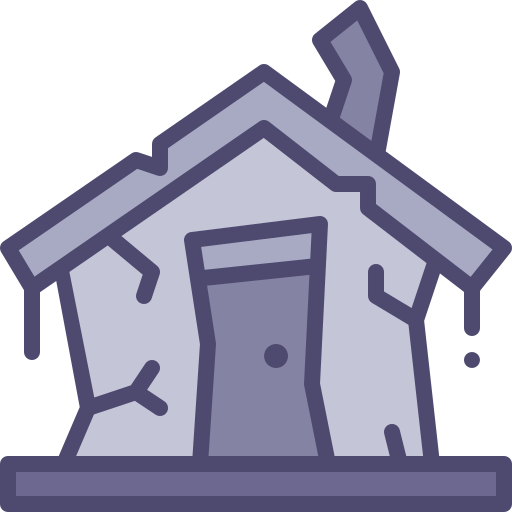
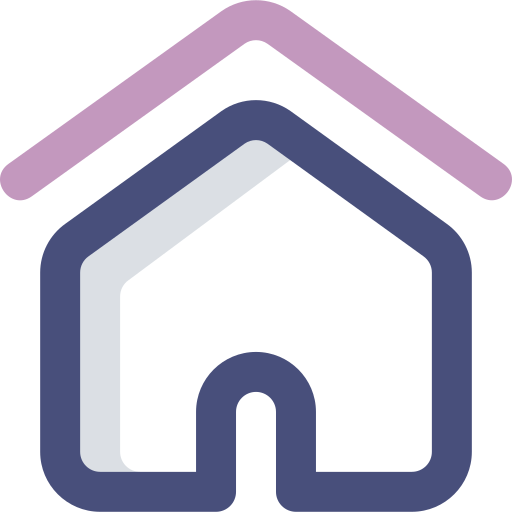
Updated background images and home button

diff --git a/src/Components/Header/Header.jsx b/src/Components/Header/Header.jsx
@@ -23,9 +23,6 @@ const Header = (props) => {
     return (
       <NavLink end to={`/${element.label.toLowerCase()}`} key={element.id}
         className={({ isActive }) => isActive ? s.activeLink : s.regularLink}>
-        {/* <img className={s.navBarImage} alt='navbar pic'
-            src={require(`../Header/Images/${element.label.toLowerCase()}.png`)} /> */}
-        {/* <p className={s.navBarImageDescription}>{element.label}</p> */}
         <span>{element.label}</span>
       </NavLink>
     )

diff --git a/src/Components/Content/Main/Main.module.css b/src/Components/Content/Main/Main.module.css
@@ -1,9 +1,10 @@
 .Main {
     background-color: #152728;
-    background-image: url("../../../Assets/house.jpg");
+    background-image: url("../../../Assets/leaves.jpg");
     background-size: cover;
     background-repeat: no-repeat;
-    background-position: center center;
+    background-position: center;
+    background-attachment: fixed;
     font-size: 1.05em;
     grid-area: main;
     text-align: center;

diff --git a/src/Components/Content/Projects/Projects.module.css b/src/Components/Content/Projects/Projects.module.css
@@ -2,10 +2,11 @@
     width: 100%;
     display: flex;
     justify-content: space-evenly;
-    background-image: url("../../../Assets/coding.jpg");
+    background-image: url("../../../Assets/cyber.jpg");
     background-size: cover;
     background-repeat: no-repeat;
-    background-position: center center;
+    background-position: center;
+    background-attachment: fixed;
     border-radius: 5px;
 }
 

diff --git a/src/Components/Content/Contact/Contact.module.css b/src/Components/Content/Contact/Contact.module.css
@@ -6,10 +6,11 @@
     color: rgb(253, 236, 216);
     text-align: center;
     height: 100%;
-    background-image: url("../../../Assets/city.jpg");
+    background-image: url("../../../Assets/it.jpg");
     background-size: cover;
     background-repeat: no-repeat;
-    background-position: center center;
+    background-position: center;
+    background-attachment: fixed;
     border-radius: 5px;
 }
 

diff --git a/src/Components/Content/Resume/Resume.module.css b/src/Components/Content/Resume/Resume.module.css
@@ -18,7 +18,8 @@
     background-image: url("../../../Assets/planet.jpg");
     background-size: cover;
     background-repeat: no-repeat;
-    background-position: center center;
+    background-position: center;
+    background-attachment: fixed;
     line-height: 1.5em;
     border-radius: 5px;
 }

diff --git a/src/Components/Content/Projects/Project/Project.module.css b/src/Components/Content/Projects/Project/Project.module.css
@@ -93,7 +93,7 @@
     border-radius: 2px;
     color: rgb(219, 227, 234);
     line-height: 1.4em;
-    font-size: 0.8em;   
+    font-size: 1em;   
 }
 
 .dropdownSkills {

diff --git a/src/Components/Header/Header.module.css b/src/Components/Header/Header.module.css
@@ -16,8 +16,8 @@
 }
 
 .homeButton {
-    width: 80px;
-    margin: 5px;
+    width: 60px;
+    margin: 10px;
     cursor: pointer;
 }
 
